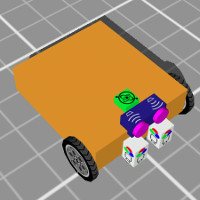
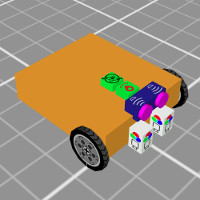
* Prevent select when setting python editor * Increased autosave frequency to 15s * Added gyro to single sensor robot and gps to double sensor robot

diff --git a/public/js/robotTemplates.js b/public/js/robotTemplates.js
@@ -22,7 +22,8 @@ var robotTemplates = [
       '<ul>' +
         '<li>Port 1 : Color Sensor</li>' +
         '<li>Port 2 : Ultrasonic Distance</li>' +
-        '<li>Port 3 : GPS Sensor</li>' +
+        '<li>Port 3 : Gyro</li>' +
+        '<li>Port 4 : GPS Sensor</li>' +
       '</ul>',
     thumbnail: 'images/robots/singleFollower.jpg',
 
@@ -59,6 +60,11 @@ var robotTemplates = [
         options: null
       },
       {
+        type: 'GyroSensor',
+        position: [0, 2.5, 2.5],
+        options: null
+      },
+      {
         type: 'GPSSensor',
         position: [0, 2.5, 5],
         options: null
@@ -76,7 +82,7 @@ var robotTemplates = [
     shortDescription: 'Double Sensor Line Follower',
     longDescription:
       '<p>This robot is equipped with two color sensor for line following.</p>' +
-      '<p>An electromagnet at the bottom of the robot lets you pick up magnetic objects, and a gyro allows accurate movements even when the robot is off the line.</p>',
+      '<p>An electromagnet at the bottom of the robot lets you pick up magnetic objects, and a gyro and GPS allows accurate movements even when the robot is off the line.</p>',
     longerDescription:
       '<h3>Dimensions</h3>' +
       '<ul>' +
@@ -95,6 +101,7 @@ var robotTemplates = [
         '<li>Port 2 : Color Sensor</li>' +
         '<li>Port 3 : Ultrasonic Distance</li>' +
         '<li>Port 4 : Gyro</li>' +
+        '<li>Port 5 : GPS Sensor</li>' +
       '</ul>',
     thumbnail: 'images/robots/doubleFollower.jpg',
 
@@ -138,6 +145,11 @@ var robotTemplates = [
       },
       {
         type: 'GyroSensor',
+        position: [0, 2.5, 2.5],
+        options: null
+      },
+      {
+        type: 'GPSSensor',
         position: [0, 2.5, 5],
         options: null
       },

diff --git a/public/js/world_LineFollowing.js b/public/js/world_LineFollowing.js
@@ -4,7 +4,8 @@ var world_LineFollowing = new function() {
   this.name = 'lineFollowing';
   this.shortDescription = 'Line Following Challenges';
   this.longDescription =
-    '<p>A series of challenges relating to line following.</p>';
+    '<p>A series of challenges relating to line following.</p>' +
+    '<p>Meta challenge: Write a single program that can complete all of the challenges except "Junctions 1".</p>';
   this.thumbnail = 'images/worlds/lineFollowing.jpg';
 
   this.options = {};
@@ -26,7 +27,7 @@ var world_LineFollowing = new function() {
         ['Obstacles 2', 'obstacles2'],
         ['Obstacles 3', 'obstacles3'],
         ['Obstacles 4', 'obstacles4'],
-        ['Junctions', 'junctions1'],
+        ['Junctions 1', 'junctions1'],
         ['Junctions 2', 'junctions2'],
       ],
       optionsHTML: {

diff --git a/public/js/pythonPanel.js b/public/js/pythonPanel.js
@@ -31,7 +31,7 @@ var pythonPanel = new function() {
 
     self.editor.on('change', self.warnModify);
 
-    setInterval(self.saveLocalStorage, 30 * 1000);
+    setInterval(self.saveLocalStorage, 15 * 1000);
   };
 
   // Warn when changing python code
@@ -55,7 +55,7 @@ var pythonPanel = new function() {
   this.loadPythonFromBlockly = function() {
     self.blocklyModified = true;
     let code = blockly.generator.genCode();
-    self.editor.setValue(code);
+    self.editor.setValue(code, 1);
     self.blocklyModified = false;
   };
 

diff --git a/public/js/main.js b/public/js/main.js
@@ -227,7 +227,7 @@ var main = new function() {
     hiddenElement.addEventListener('change', function(e){
       var reader = new FileReader();
       reader.onload = function() {
-        pythonPanel.editor.setValue(this.result);
+        pythonPanel.editor.setValue(this.result, 1);
         self.tabClicked('navPython');
         pythonPanel.warnModify();
       };

diff --git a/public/js/blocklyPanel.js b/public/js/blocklyPanel.js
@@ -12,7 +12,7 @@ var blocklyPanel = new function() {
 
     self.loadPagesOptions();
 
-    setInterval(blockly.saveLocalStorage, 30 * 1000);
+    setInterval(blockly.saveLocalStorage, 15 * 1000);
   };
 
   // Load pages options menu. This is used here and by blockly.js when loading a save.
